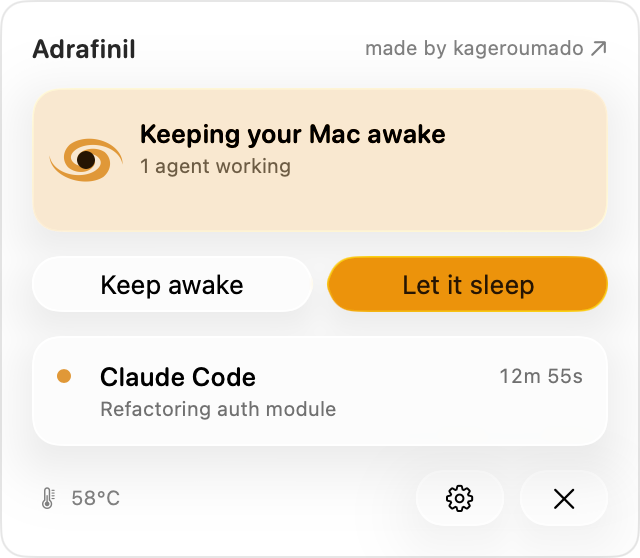
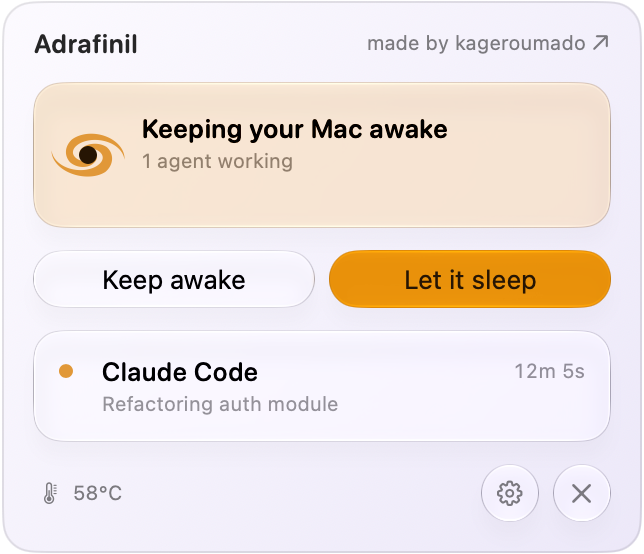
Restyle the popover for macOS 27 and re-capture the README screenshots
macOS 27 draws large `.glass` buttons as wide capsules, so Settings and Quit
read as pills out of step with the rest of the suite. They are now Propofol
0.2.1's 28 pt `FooterIconButton` circles, and the quit confirmation mirrors
them with a Cancel circle and a red-tinted glass ✕. The popover root is a
`popoverContainer()` and its glass blend distance is zero so neighboring
controls keep their own outlines.

`-ADRAFINIL_STAGE awake|idle|hold` presents one README state in Propofol's
`PopoverStageWindow`, one per launch because tinted glass takes its color
only in the key window. `MenuPopover.startsPickingDuration` opens the hold
picker once the window is up: present while the window first becomes key,
the picker spins SwiftUI's default key-view-loop setup indefinitely.

diff --git a/Adrafinil/App/MenuPopover.swift b/Adrafinil/App/MenuPopover.swift
@@ -10,6 +10,8 @@ struct MenuPopover: View {
     /// Host hardware, so idle copy avoids mentioning a lid on a desktop Mac. Defaults to the real
     /// device; previews/gallery inject a desktop to exercise the variant.
     var device: DeviceCapabilities = .current
+    /// Opens with the "Keep awake" duration picker showing, for the gallery and README captures.
+    var startsPickingDuration = false
 
     /// Whether the in-popover quit confirmation is showing. This replaces a modal `NSAlert`, which an
     /// `.accessory` (menu-bar) app can't reliably surface — the alert appears as an off-screen system
@@ -32,6 +34,11 @@ struct MenuPopover: View {
     /// Measured natural height of the assertion list, so its ScrollView (greedy by nature) can be
     /// pinned to hug the rows until `Theme.assertionListMaxHeight`, then scroll.
     @State private var agentListContentHeight: CGFloat = 0
+
+    private enum Layout {
+        /// The confirmation's red ✕ glyph, matching `FooterIconButton`'s.
+        static let quitGlyphSize: CGFloat = 12
+    }
 
     /// Preset hold durations, in minutes. Filtered to those within the user's cap before display.
     /// Longer holds are reachable via `∞` (the cap) or the custom stepper, so the row stays compact.
@@ -59,6 +66,14 @@ struct MenuPopover: View {
         // Recompute connected-agent hook health each time the popover opens (a few small file reads),
         // so a drifted agent surfaces here and not only in the Agents settings tab. Also refresh the
         // hold-duration cap so the picker reflects the user's current setting.
+        // Opened a turn after appearing, the way a click opens it: present while the window first
+        // becomes key, the picker spins SwiftUI's default key-view-loop setup indefinitely.
+        .task {
+            if startsPickingDuration {
+                try? await Task.sleep(for: .seconds(1))
+                pickingDuration = true
+            }
+        }
         .task {
             status.refreshAgentHealth()
             maxHoldHours = AdrafinilSettings.load().manualHoldMaxHours
@@ -69,7 +84,9 @@ struct MenuPopover: View {
     private func content(now: Date) -> some View {
         let live = liveStatus(now: now)
         let hero = heroState(live, now: now)
-        GlassEffectContainer(spacing: Theme.Space.md) {
+        // Zero blend distance: the footer's controls sit closer together than any nonzero
+        // spacing would allow before their glass starts pooling into one shape.
+        GlassEffectContainer(spacing: 0) {
             VStack(alignment: .leading, spacing: Theme.Space.md) {
                 header
 
@@ -119,7 +136,7 @@ struct MenuPopover: View {
 
                 bottomBar(status.lastError == nil ? live : nil)
             }
-            .padding(Theme.Space.lg)
+            .popoverContainer()
         }
         // The quit confirmation grows out of the quit button as a warning overlay rather than swapping
         // the whole popover (which jumped its size). Pinned to the bottom and scaling from the ✕, so it
@@ -869,20 +886,19 @@ struct MenuPopover: View {
             // put and turns red.
             HStack(spacing: Theme.Space.sm) {
                 Spacer(minLength: 0)
-                GlassEffectContainer(spacing: Theme.Space.sm) {
-                    HStack(spacing: Theme.Space.sm) {
-                        Button { confirmingQuit = false } label: { utilityIcon("arrow.uturn.backward") }
-                            .buttonStyle(.glass)
-                            .help("Cancel")
-                        Button { NSApp.terminate(nil) } label: {
-                            utilityIcon("xmark").foregroundStyle(.white)
-                        }
-                        .buttonStyle(.glassProminent)
-                        .tint(.red)
-                        .help("Quit Adrafinil")
-                    }
-                    .controlSize(.large)
+                FooterIconButton("Cancel", systemImage: "arrow.uturn.backward") { confirmingQuit = false }
+                    .help("Cancel")
+                Button { NSApp.terminate(nil) } label: {
+                    Image(systemName: "xmark")
+                        .font(.system(size: Layout.quitGlyphSize, weight: .semibold))
+                        .foregroundStyle(.white)
+                        .frame(width: Theme.footerControlHeight, height: Theme.footerControlHeight)
+                        .contentShape(Circle())
+                        .glassEffect(.regular.tint(.red).interactive(), in: Circle())
                 }
+                .buttonStyle(.plain)
+                .accessibilityLabel("Quit Adrafinil")
+                .help("Quit Adrafinil")
             }
         }
         .padding(Theme.Space.lg)
@@ -900,20 +916,13 @@ struct MenuPopover: View {
         HStack(spacing: Theme.Space.sm) {
             if let s { metaLabels(s) }
             Spacer(minLength: 0)
-            GlassEffectContainer(spacing: Theme.Space.sm) {
-                HStack(spacing: Theme.Space.sm) {
-                    SettingsLink { utilityIcon("gearshape") }
-                        .help("Settings…")
-                    Button { confirmingQuit = true } label: {
-                        // `xmark` (quit the app), not `power` — a power glyph in a Mac context
-                        // reads as "shut down the Mac", the wrong mental model for closing the app.
-                        utilityIcon("xmark")
-                    }
-                    .help("Quit Adrafinil")
-                }
-                .buttonStyle(.glass)
-                .controlSize(.large)
-            }
+            SettingsLink { Image(systemName: "gearshape").accessibilityLabel("Settings") }
+                .buttonStyle(.footerIcon)
+                .help("Settings…")
+            // `xmark` (quit the app), not `power` — a power glyph in a Mac context reads as
+            // "shut down the Mac", the wrong mental model for closing the app.
+            FooterIconButton("Quit Adrafinil", systemImage: "xmark") { confirmingQuit = true }
+                .help("Quit Adrafinil")
         }
     }
 
@@ -933,14 +942,6 @@ struct MenuPopover: View {
         .font(.caption)
         .foregroundStyle(.secondary)
         .padding(.leading, Theme.Space.xs)
-    }
-
-    /// A glyph for the bottom-bar utility buttons (Settings / Quit), pinned to a fixed square so
-    /// both `.glass` capsules come out the same size — otherwise each capsule hugs its glyph and
-    /// the taller `gearshape` makes its button visibly taller than `xmark`.
-    private func utilityIcon(_ name: String) -> some View {
-        Image(systemName: name)
-            .frame(width: 16, height: 16)
     }
 
     // MARK: - Derived state

diff --git a/Adrafinil/App/Gallery/ScreenshotStage.swift b/Adrafinil/App/Gallery/ScreenshotStage.swift
@@ -1,0 +1,37 @@
+#if DEBUG
+    import AdrafinilShared
+    import AppKit
+    import Propofol
+    import SwiftUI
+
+    /// The README's three popover states, each in Propofol's chrome-less `PopoverStageWindow`.
+    ///
+    /// Present by launching with `-ADRAFINIL_STAGE awake|idle|hold`; one state per launch, because
+    /// tinted glass (the awake hero, the prominent button) takes its color only in the key window
+    /// of the frontmost app. Capture with `screencapture -l <window id> -o out.png`, finding the id
+    /// by the window title `Adrafinil — Stage`.
+    @MainActor
+    enum ScreenshotStage {
+        private static var window: NSWindow?
+
+        static func present(_ state: String) {
+            let window = PopoverStageWindow(title: "Adrafinil — Stage") { popover(for: state) }
+            window.center()
+            self.window = window
+            window.makeKeyAndOrderFront(nil)
+            NSApp.activate(ignoringOtherApps: true)
+        }
+
+        @ViewBuilder
+        private static func popover(for state: String) -> some View {
+            switch state {
+            case "idle":
+                MenuPopover(status: AppStatusModel(previewStatus: Fixtures.idle))
+            case "hold":
+                MenuPopover(status: AppStatusModel(previewStatus: Fixtures.idle), startsPickingDuration: true)
+            default:
+                MenuPopover(status: AppStatusModel(previewStatus: Fixtures.oneAgent))
+            }
+        }
+    }
+#endif

diff --git a/Adrafinil/App/AppDelegate.swift b/Adrafinil/App/AppDelegate.swift
@@ -68,6 +68,8 @@ final class AppDelegate: NSObject, NSApplicationDelegate, UNUserNotificationCent
             // Daemon-free UI gallery: launch with `-ADRAFINIL_GALLERY 1` to review every surface/state.
             if UserDefaults.standard.bool(forKey: "ADRAFINIL_GALLERY") {
                 presentGallery()
+            } else if let state = UserDefaults.standard.string(forKey: "ADRAFINIL_STAGE") {
+                ScreenshotStage.present(state)
             } else {
                 // Every DEBUG run opens the interactive control panel and skips the real first-run
                 // flow, so the UI can be exercised with mock scenarios. Flip "Use live daemon" in
